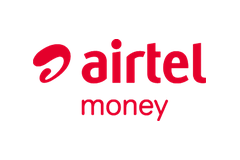
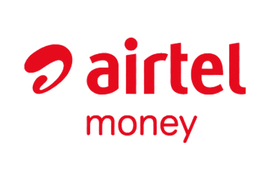
Map Papi instruments to Odoo payment methods
Set `payment_method_id` on Papi transactions based on the reported instrument (MVOLA, Orange Money, Airtel Money, BRED/Visa) so Odoo shows the actual brand used. Add migrations to backfill existing transactions and refresh brand logos loaded as `noupdate`, update checkout templates to use custom high-quality Papi brand logos, and bump the module version to 18.0.1.0.2 with related test coverage updates.

Changed region(s): [[0.0875, 0.1875, 0.9333, 0.5312], [0.2917, 0.5938, 0.7292, 0.8125]]

diff --git a/custom_addons/payment_papi/migrations/18.0.1.0.1/post-migration.py b/custom_addons/payment_papi/migrations/18.0.1.0.1/post-migration.py
@@ -1,0 +1,22 @@
+# Part of Papi Odoo integration. See LICENSE file for full copyright and licensing details.
+
+import base64
+
+from odoo import api, SUPERUSER_ID
+from odoo.tools import file_open
+
+# The brand payment methods are loaded with `noupdate`: refresh their logos explicitly.
+BRAND_LOGOS = {
+    'payment_papi.payment_method_papi_mvola': 'payment_papi/static/img/mvola.png',
+    'payment_papi.payment_method_papi_orange_money': 'payment_papi/static/img/orange_money.png',
+    'payment_papi.payment_method_papi_airtel_money': 'payment_papi/static/img/airtel_money.png',
+}
+
+
+def migrate(cr, version):
+    env = api.Environment(cr, SUPERUSER_ID, {})
+    for xmlid, path in BRAND_LOGOS.items():
+        method = env.ref(xmlid, raise_if_not_found=False)
+        if method:
+            with file_open(path, 'rb') as logo:
+                method.image = base64.b64encode(logo.read())

diff --git a/custom_addons/payment_papi/migrations/18.0.1.0.2/post-migration.py b/custom_addons/payment_papi/migrations/18.0.1.0.2/post-migration.py
@@ -1,0 +1,17 @@
+# Part of Papi Odoo integration. See LICENSE file for full copyright and licensing details.
+
+from odoo import api, SUPERUSER_ID
+
+from odoo.addons.payment_papi import const
+
+
+def migrate(cr, version):
+    """ Set the payment method matching the instrument on the existing Papi transactions. """
+    env = api.Environment(cr, SUPERUSER_ID, {})
+    for instrument, xmlid in const.PAYMENT_METHOD_XMLIDS.items():
+        brand_method = env.ref(xmlid, raise_if_not_found=False)
+        if brand_method:
+            env['payment.transaction'].search([
+                ('provider_code', '=', 'papi'),
+                ('papi_payment_method', '=', instrument),
+            ]).write({'payment_method_id': brand_method.id})

diff --git a/custom_addons/payment_papi/const.py b/custom_addons/payment_papi/const.py
@@ -63,6 +63,16 @@ PAYMENT_METHOD_SELECTION = [
     ('BRED', "Card (BRED)"),
 ]
 
+# The Odoo payment method (brand of the Papi method) matching each payment instrument reported by
+# Papi. It is set on the transaction once the instrument is known, so that Odoo shows the
+# instrument actually used (the card provider settles VISA cards).
+PAYMENT_METHOD_XMLIDS = {
+    'MVOLA': 'payment_papi.payment_method_papi_mvola',
+    'ORANGE_MONEY': 'payment_papi.payment_method_papi_orange_money',
+    'AIRTEL_MONEY': 'payment_papi.payment_method_papi_airtel_money',
+    'BRED': 'payment_papi.payment_method_papi_visa',
+}
+
 # The codes of the payment methods to activate when Papi is activated.
 DEFAULT_PAYMENT_METHOD_CODES = {
     'papi',

diff --git a/custom_addons/payment_papi/models/payment_transaction.py b/custom_addons/payment_papi/models/payment_transaction.py
@@ -348,6 +348,11 @@ class PaymentTransaction(models.Model):
             values.pop('papi_error_code')
         if payment_method in dict(const.PAYMENT_METHOD_SELECTION):
             values['papi_payment_method'] = payment_method
+            brand_method = self.env.ref(
+                const.PAYMENT_METHOD_XMLIDS[payment_method], raise_if_not_found=False
+            )
+            if brand_method:
+                values['payment_method_id'] = brand_method.id
         if link_data.get('papiPaymentReference'):
             values['provider_reference'] = link_data['papiPaymentReference']
         if link_data.get('linkExpirationDateTime'):

diff --git a/custom_addons/payment_papi/tests/test_payment_transaction.py b/custom_addons/payment_papi/tests/test_payment_transaction.py
@@ -114,6 +114,8 @@ class TestPaymentTransaction(PapiCommon):
         self.assertEqual(tx.state, 'done')
         self.assertEqual(tx.provider_reference, self.papi_payment_reference)
         self.assertEqual(tx.papi_payment_method, 'MVOLA')
+        self.assertEqual(tx.payment_method_id, self.env.ref('payment_papi.payment_method_papi_mvola'))
+        self.assertEqual(tx.provider_id, self.papi)
         self.assertEqual(tx.papi_link_status, 'PAID')
         self.assertEqual(tx.papi_payment_status, 'SUCCESS')
         self.assertTrue(tx.papi_last_sync_date)

diff --git a/custom_addons/payment_papi/__manifest__.py b/custom_addons/payment_papi/__manifest__.py
@@ -2,7 +2,7 @@
 
 {
     'name': "Payment Provider: Papi",
-    'version': '18.0.1.0.0',
+    'version': '18.0.1.0.2',
     'category': 'Accounting/Payment Providers',
     'sequence': 350,
     'summary': "Accept Mobile Money (MVola, Orange Money, Airtel Money) and card payments in "
